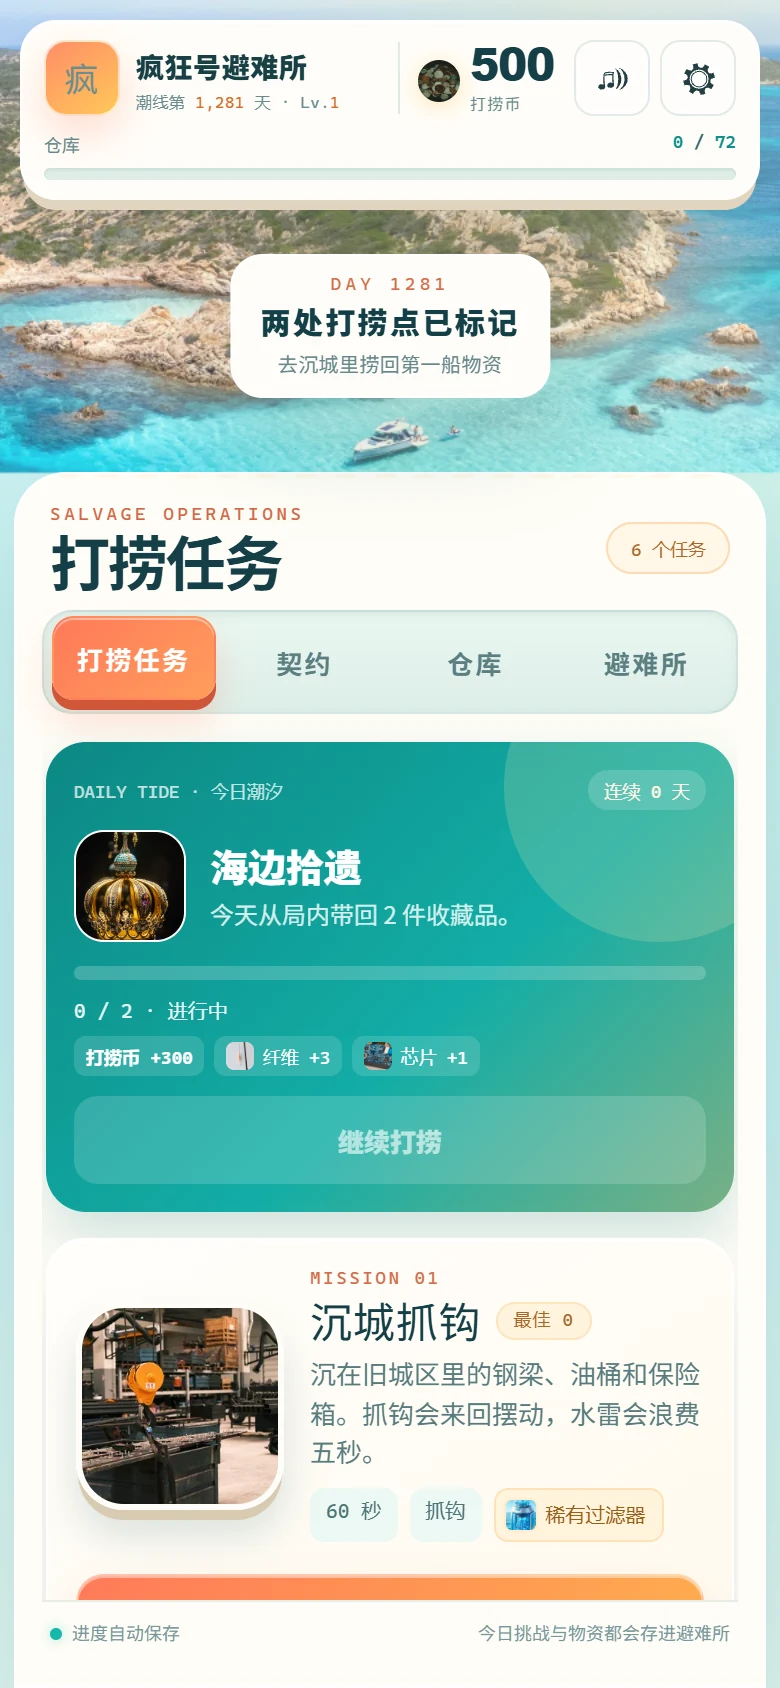
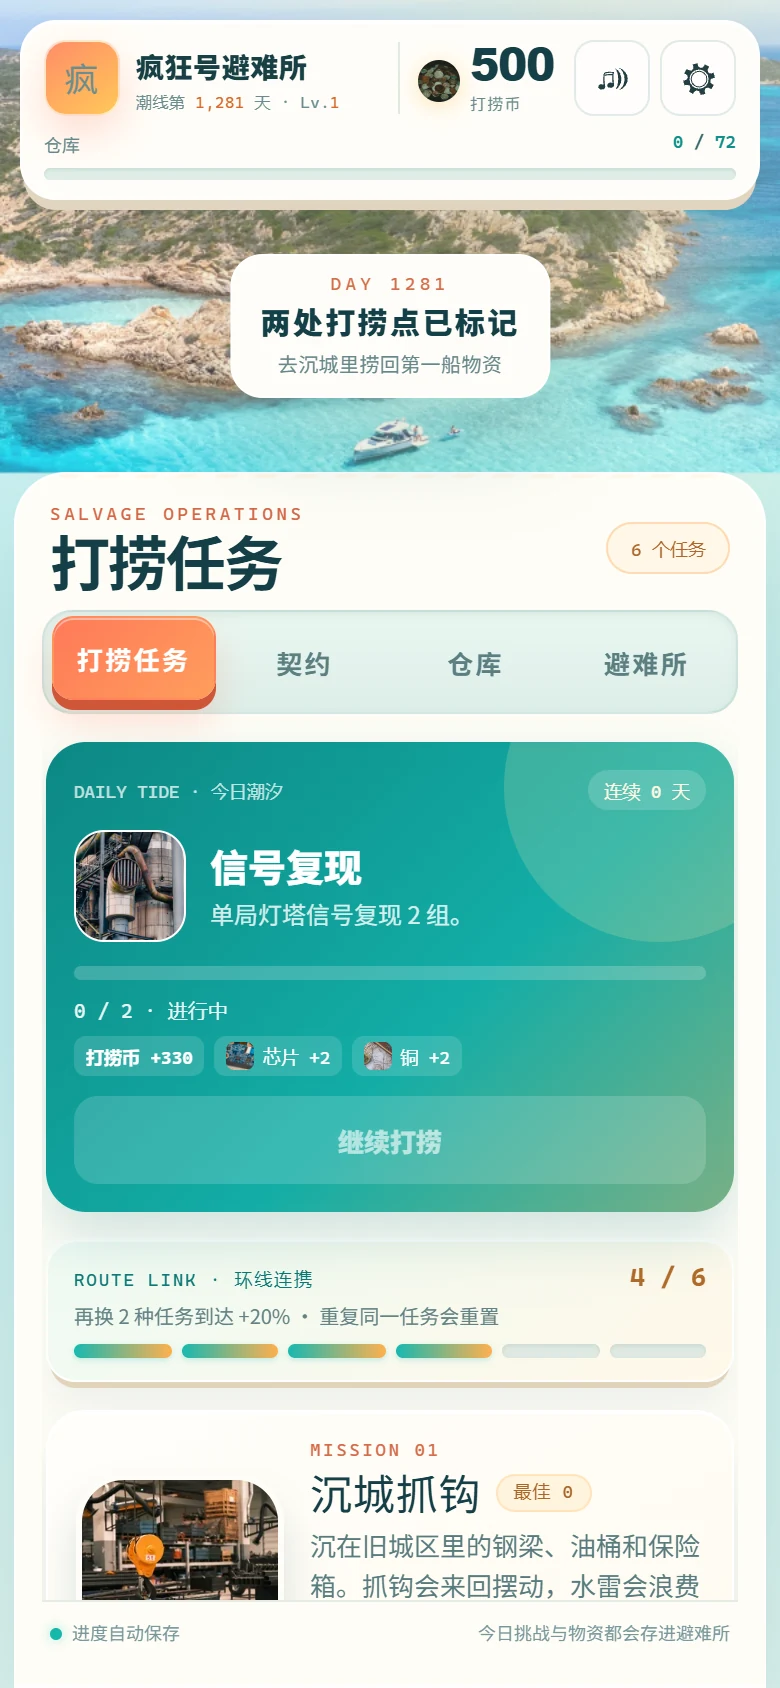
v5.5: 环线连携，鼓励轮换六个任务

diff --git a/js/hub.js b/js/hub.js
@@ -444,6 +444,8 @@
       },
       upgrades: { storage: 0, workshop: 0, sonar: 0, core: 0, purifier: 0 },
       best: { hook: 0, match: 0, sonar: 0, cut: 0, sort: 0, beacon: 0 },
+      taskChain: 0,
+      lastTask: '',
       runs: 0
     };
   }
@@ -526,6 +528,8 @@
       data.best.cut = Math.max(0, Number(raw.best.cut) || 0);
       data.best.sort = Math.max(0, Number(raw.best.sort) || 0);
       data.best.beacon = Math.max(0, Number(raw.best.beacon) || 0);
+      data.taskChain = clamp(Math.floor(Number(raw.taskChain) || 0), 0, 6);
+      data.lastTask = ['hook', 'match', 'sonar', 'cut', 'sort', 'beacon'].indexOf(raw.lastTask) >= 0 ? raw.lastTask : '';
     }
     return data;
   }
@@ -921,8 +925,20 @@
     '</article>';
   };
 
+  Hub.prototype.renderTaskChain = function () {
+    var chain = clamp(Math.floor(Number(this.data.taskChain) || 0), 0, 6);
+    var msg;
+    if (chain >= 6) msg = '环线全开 · 换任务仍保持 +20% 打捞币';
+    else if (chain >= 3) msg = '再换 ' + (6 - chain) + ' 种任务到达 +20% · 重复同一任务会重置';
+    else msg = '再换 ' + (3 - chain) + ' 种不同任务到达 +10% · 重复同一任务会重置';
+    var pips = '';
+    for (var i = 0; i < 6; i++) pips += '<i class="' + (i < chain ? 'on' : '') + '"></i>';
+    return '<div class="chain-card"><div class="chain-head"><span>ROUTE LINK · 环线连携</span><b>' + chain + ' / 6</b></div>' +
+      '<p>' + msg + '</p><div class="chain-pips">' + pips + '</div></div>';
+  };
+
   Hub.prototype.renderTasks = function () {
-    var html = this.renderDailyCard() + '<div class="mission-list">';
+    var html = this.renderDailyCard() + this.renderTaskChain() + '<div class="mission-list">';
     for (var i = 0; i < MISSIONS.length; i++) {
       var m = MISSIONS[i];
       var best = this.data.best[m.id] || 0;
@@ -1709,10 +1725,16 @@
   };
 
   Hub.prototype.applyRunResult = function (result) {
+    var taskType = result.type || 'hook';
+    var chain = taskType !== this.data.lastTask ? Math.min(6, (this.data.taskChain || 0) + 1) : 1;
+    this.data.taskChain = chain;
+    this.data.lastTask = taskType;
+    var chainMult = chain >= 6 ? 1.2 : chain >= 3 ? 1.1 : 1;
     var cap = this.capacity();
     var used = this.used();
     var storeSpace = Math.max(0, cap - used);
     var creditGain = Math.round((result.credits || 0) * this.creditMult());
+    var chainBonus = Math.round(creditGain * (chainMult - 1));
     var stored = {};
     var overflowUnits = 0;
     var overflowCredits = 0;
@@ -1731,7 +1753,7 @@
       }
       this.data.materials[m.id] = (this.data.materials[m.id] || 0) + store;
     }
-    this.data.credits += creditGain + overflowCredits;
+    this.data.credits += creditGain + overflowCredits + chainBonus;
     var filtersGained = Math.max(0, Math.floor(Number(result.filters) || 0));
     this.data.filters = (this.data.filters || 0) + filtersGained;
     if (filtersGained > 0) this.data.filterPity = 0;
@@ -1752,15 +1774,18 @@
     stats.goldTotal = (stats.goldTotal || 0) + Math.max(0, Math.floor(Number(result.goldCount) || 0));
     stats.filtersFound = (stats.filtersFound || 0) + filtersGained;
     stats.collectiblesFound = (stats.collectiblesFound || 0) + collectibles.length;
-    stats.creditsEarned = (stats.creditsEarned || 0) + creditGain + overflowCredits;
+    stats.creditsEarned = (stats.creditsEarned || 0) + creditGain + overflowCredits + chainBonus;
     if (result.type === 'sonar' && Number(result.found || 0) >= 4) stats.sonarPerfect = (stats.sonarPerfect || 0) + 1;
     this.saveGame();
     this.updateUI();
     this.renderPanel();
     return {
       creditGain: creditGain,
+      chain: chain,
+      chainMult: chainMult,
+      chainBonus: chainBonus,
       overflowCredits: overflowCredits,
-      totalCredits: creditGain + overflowCredits,
+      totalCredits: creditGain + overflowCredits + chainBonus,
       stored: stored,
       overflowUnits: overflowUnits,
       filters: filtersGained,

diff --git a/css/style.css b/css/style.css
@@ -1449,6 +1449,22 @@ body::after {
 .panel-foot i { width: 6px; height: 6px; background: #16b8a9; box-shadow: 0 0 7px rgba(22, 184, 169, 0.5); }
 
 /* Tasks */
+.chain-card {
+  margin: 12px 0 14px;
+  padding: 11px 13px;
+  border: 1px solid rgba(255, 255, 255, 0.9);
+  border-radius: 15px;
+  background: linear-gradient(135deg, #effaf3, #fff8e9);
+  box-shadow: 0 5px 0 -2px #e1d3bb, 0 12px 20px rgba(31, 84, 84, 0.08), inset 0 1px 0 #fff;
+}
+.chain-head { display: flex; align-items: baseline; justify-content: space-between; gap: 8px; }
+.chain-head span { font-family: var(--mono); font-size: 9px; letter-spacing: 0.1em; color: #0d7774; }
+.chain-head b { font-family: var(--mono); font-size: 13px; color: #b06b28; }
+.chain-card p { margin: 4px 0 7px; font-size: 10px; line-height: 1.5; color: #638284; }
+.chain-pips { display: flex; gap: 5px; }
+.chain-pips i { width: 100%; height: 7px; border-radius: 99px; background: #dfe9e2; box-shadow: inset 0 1px 2px rgba(24, 81, 82, 0.1); }
+.chain-pips i.on { background: linear-gradient(90deg, #18b8b0, #ffb04e); box-shadow: 0 1px 3px rgba(24, 184, 176, 0.25); }
+.summary-chip.chain { border: 1px solid var(--tone); color: var(--tone); }
 .mission-list { gap: 12px; }
 .mission-card {
   grid-template-columns: 74px minmax(0, 1fr);

diff --git a/index.html b/index.html
@@ -134,7 +134,7 @@
       </div>
       <div class="title-footer">
         <span>海岸实景素材 · 本地图片 · 无离线收益</span>
-        <span>v5.4 · PURE STATIC</span>
+        <span>v5.5 · PURE STATIC</span>
       </div>
     </section>
 
@@ -219,7 +219,7 @@
         <button class="btn ghost wide" data-action="guide">查看玩法说明</button>
         <button id="reset-save" class="btn danger wide" data-action="reset-save">清空避难所</button>
         <p class="modal-note">清空会删除打捞币、物资和所有扩建，无法撤销。再次点击确认。</p>
-        <p class="version">疯狂水世界 · v5.4 · 本地图片素材 + 程序化特效，无远程依赖</p>
+        <p class="version">疯狂水世界 · v5.5 · 本地图片素材 + 程序化特效，无远程依赖</p>
       </div>
     </section>
 
@@ -293,6 +293,7 @@
   </main>
 </body>
 </html>
+
 
 
 

diff --git a/js/arcade.js b/js/arcade.js
@@ -577,6 +577,9 @@
     if (this.hub.data.equipped && this.hub.data.equipped.length) {
       chips += '<span class="summary-chip relic" style="--tone:#18b8b0">藏品 · ' + this.hub.data.equipped.length + ' 件</span>';
     }
+    if (this.applied.chain >= 2) {
+      chips += '<span class="summary-chip chain" style="--tone:#e0a13c">环线 · ' + this.applied.chain + '/6' + (this.applied.chainBonus > 0 ? ' · +' + Math.round((this.applied.chainMult - 1) * 100) + '%' : '') + '</span>';
+    }
     for (var i = 0; i < MATERIALS.length; i++) {
       var m = MATERIALS[i];
       var n = this.applied.stored[m.id] || 0;

diff --git a/DESIGN.md b/DESIGN.md
@@ -1,6 +1,6 @@
 # 疯狂水世界 · 游戏设计文档
 
-> 版本：5.4 · 类型：海岸打捞 / 小游戏合集 / 轻松经营  
+> 版本：5.5 · 类型：海岸打捞 / 小游戏合集 / 轻松经营  
 > 平台：桌面与移动端浏览器 · 单局 1–3 分钟 · 无离线收益
 
 ---
@@ -310,6 +310,14 @@ HUD 以「末日第 1,281 天」计量时间，每完成一局打捞推进 2 天
 - 与海况/双重海况相乘；结算显示许可标签。
 - 「再来一局」回到简报，重新抽海况和许可。
 
+### 8.6.2 环线连携
+
+- 存档新增 `taskChain` 与 `lastTask`；每次结算比较本次任务类型与上一次。
+- 任务类型不同：`taskChain +1`，最高 6；类型相同：重置为 1。
+- 环线 ≥3 时打捞币 ×1.1，≥6 时 ×1.2；只作用于打捞币，不放大材料。
+- 任务页用 6 格进度卡显示当前环线与下一档目标；结算显示「环线 · N/6」。
+- 与海况、许可、藏品加成相乘后，再叠加连携奖励；不产生离线收益。
+
 ### 8.7 沉船收藏与合成
 
 - 15 件收藏，5 个稀有度：普通 5 / 精良 4 / 稀有 3 / 史诗 2 / 传说 1；保存为 `collectibles: { id: count }`。
@@ -484,6 +492,7 @@ CREDITS.md                        图片与图标授权
 ---
 
 所有核心数值集中在 `js/hub.js`、`js/arcade.js`、`js/match.js` 顶部，方便直接调整并重新平衡。过滤器出现率分别在 `HookGame.buildField`（12%）和 `MatchGame.finish`（5%）中调整。
+
 
 
 

diff --git a/ROADMAP.md b/ROADMAP.md
@@ -2,7 +2,16 @@
 
 > 每 2 小时一轮。每轮先列计划，再做一项以上有意义的改动，并完成测试与文档更新。
 
-## 当前版本：v5.4
+## 当前版本：v5.5
+
+### v5.5 · 环线连携
+
+- 连续完成不同任务累计「环线」：3 种 +10% 打捞币，6 种 +20%。
+- 连续重复同一个任务会把环线重置为 1；换任务即可重新积累。
+- 任务页新增 6 格环线进度卡，显示下一档目标。
+- 结算新增「环线 · N/6」标签，连携奖励同时计入累计打捞币。
+- 存档新增 taskChain / lastTask，旧存档从 0 开始。
+- 不改变材料、仓库、每日 / 契约 / 成就规则，不产生离线收益。
 
 ### v5.4 · 三个新任务的目标闭环
 
@@ -192,6 +201,7 @@
 4. 更新版本号、README / DESIGN、必要的预览图和 `CREDITS.md`。
 5. 回复按「计划 → 改动 → 测试 → 下一轮候选」输出。
 6. 保持：**无离线收益、无体力、无远程运行时依赖**。
+
 
 
 

diff --git a/README.md b/README.md
@@ -141,6 +141,17 @@
 | --- | --- |
 | ![标题画面](docs/preview-title.webp) | ![手机竖屏](docs/preview-mobile.webp) |
 
+## 环线连携
+
+任务页新增 **ROUTE LINK · 环线连携** 进度卡：
+
+- 连续完成 **3 种不同任务**：打捞币 +10%。
+- 连续完成 **6 种不同任务**：打捞币 +20%。
+- 连续重复同一个任务会把环线重置为 1；换任务即可继续积累。
+- 结算页显示「环线 · N/6」，连携奖励直接计入本局打捞币。
+- 只影响打捞币，不放大材料，也不会绕过仓库容量。
+- 没有离线进度，不新增标签页。
+
 ## 打捞契约
 
 ![打捞契约](docs/preview-contracts.webp)
